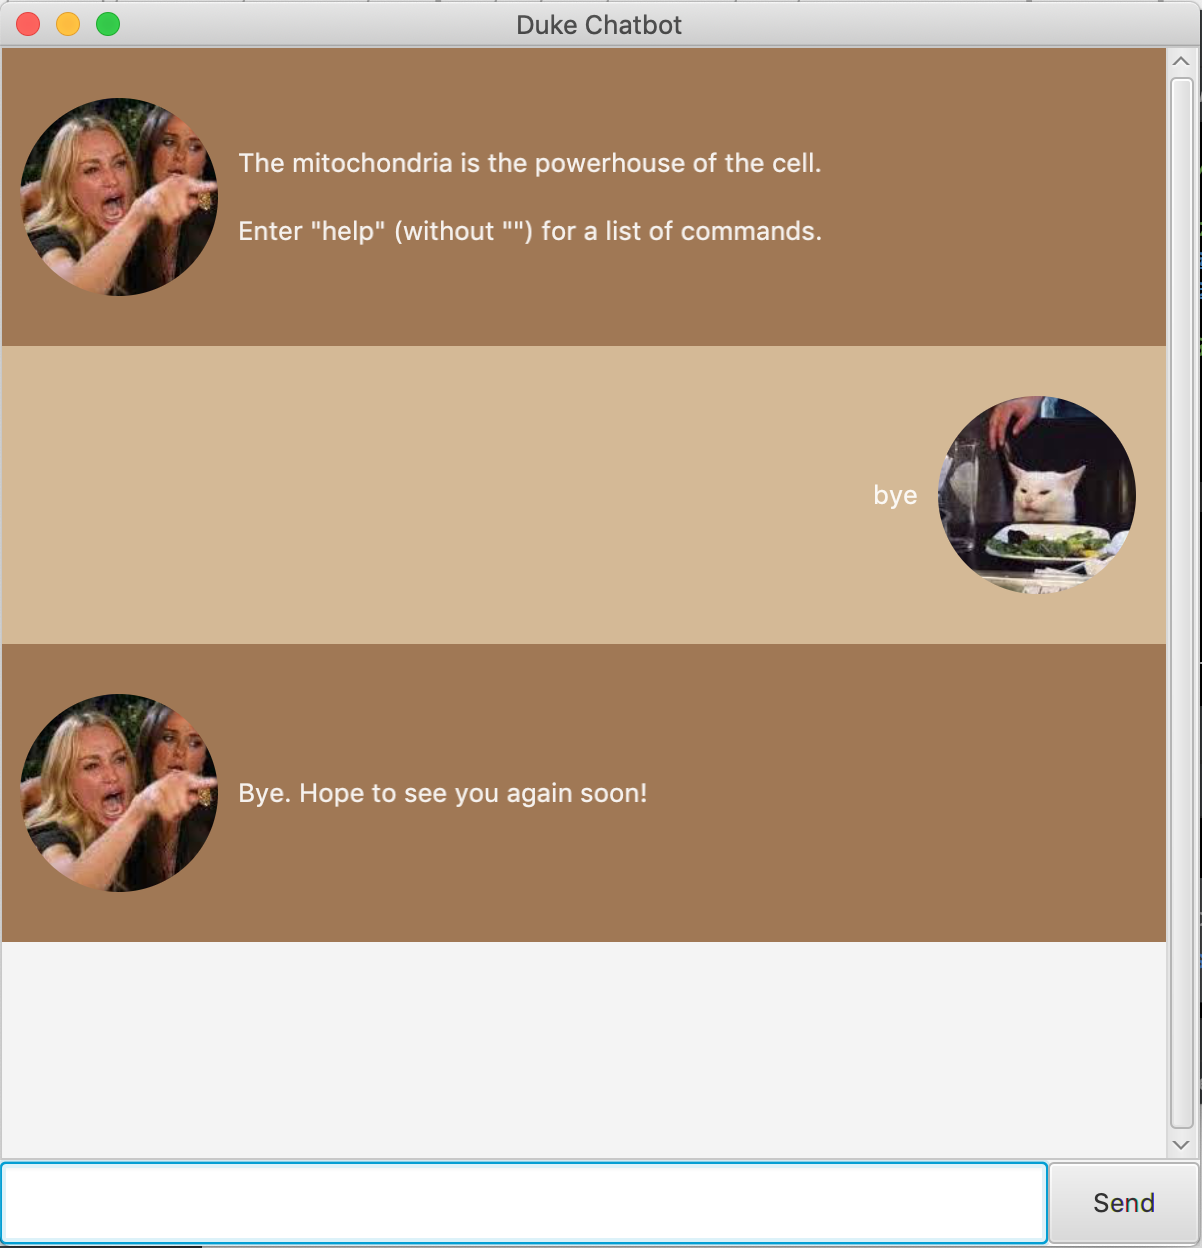
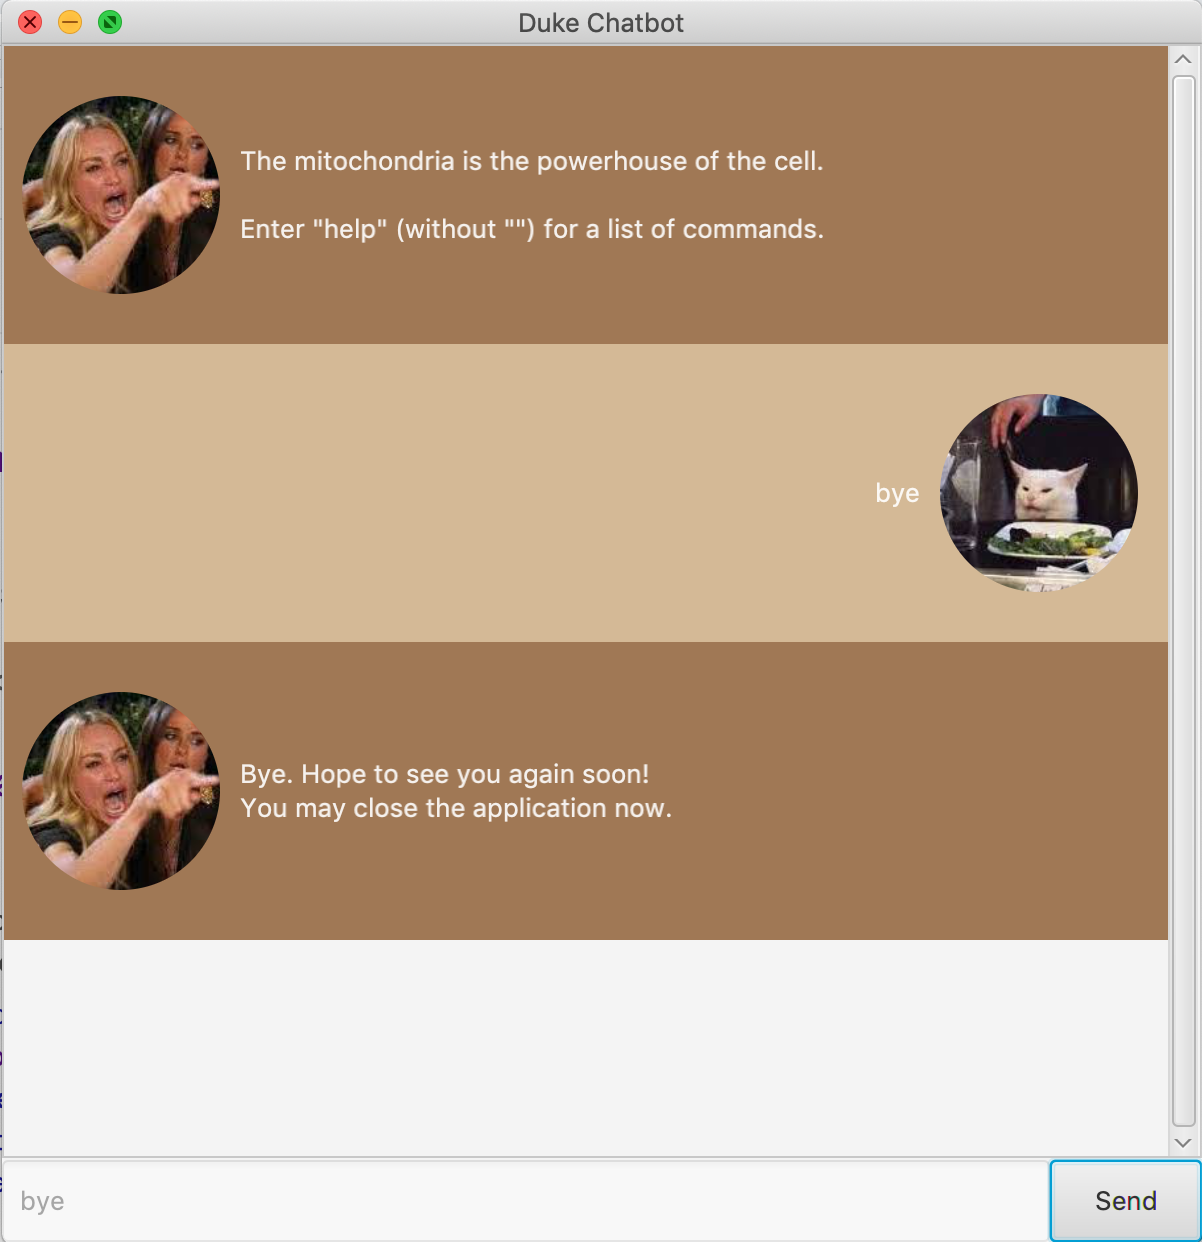
Update GUI to disable the user input text field after an exit command is received

diff --git a/src/main/java/duke/ui/MainWindow.java b/src/main/java/duke/ui/MainWindow.java
@@ -59,6 +59,8 @@ public class MainWindow extends AnchorPane {
                 DialogBox.getUserDialog(input, userImage),
                 DialogBox.getDukeDialog(response, dukeImage)
         );
-        userInput.clear();
+        if (response.equals("Bye. Hope to see you again soon!\nYou may close the application now.\n")) {
+            userInput.setDisable(true);
+        }
     }
 }

diff --git a/src/main/java/duke/commands/ExitCommand.java b/src/main/java/duke/commands/ExitCommand.java
@@ -14,7 +14,7 @@ public class ExitCommand extends Command {
      */
     @Override
     public CommandResult execute() {
-        String exitMessage = "Bye. Hope to see you again soon!\n";
+        String exitMessage = "Bye. Hope to see you again soon!\nYou may close the application now.\n";
         return new CommandResult(exitMessage);
     }
 
